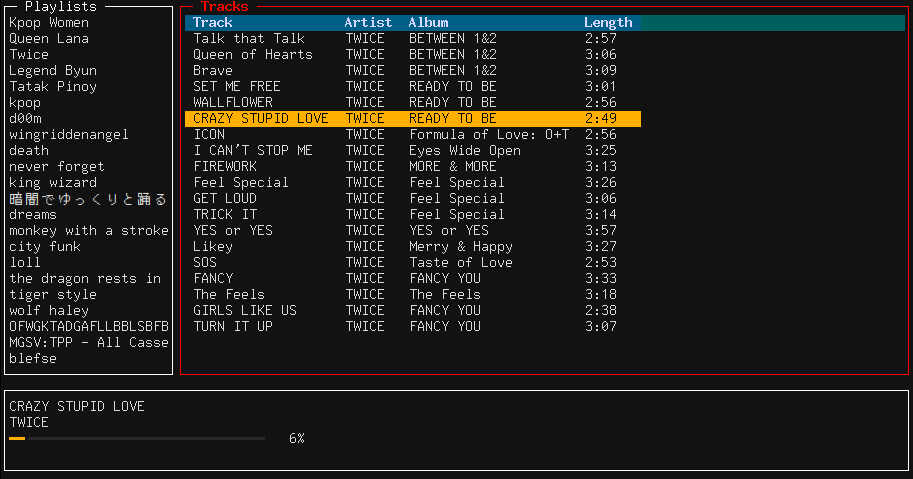
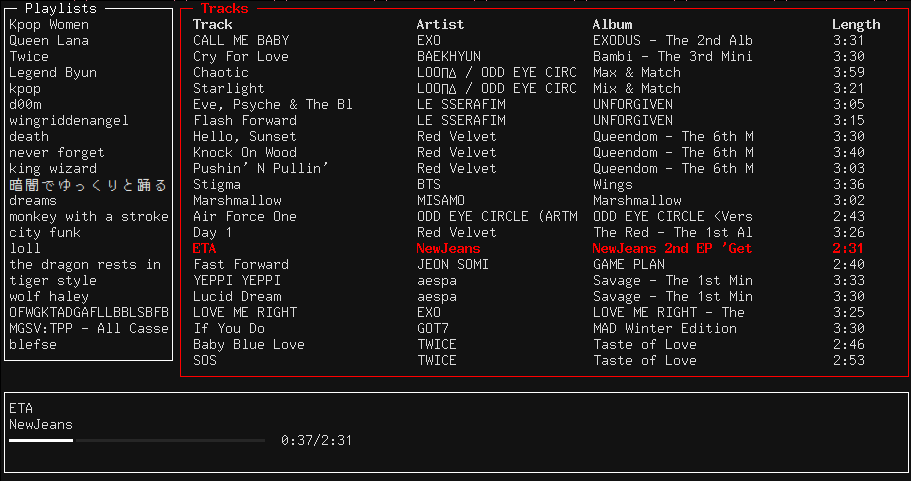
working on getting around playback limitations

Changed region(s): [[0.0, 0.0, 1.0, 0.9645], [0.3074, 0.9061, 0.3996, 0.9353], [0.7991, 0.4384, 0.8299, 0.4676]]

diff --git a/tools/widgets.py b/tools/widgets.py
@@ -1,4 +1,6 @@
 import spotipy 
+import time
+import threading 
 from textual.widgets import ListItem, Label, Static, ProgressBar
 from textual.app import ComposeResult
 from textual.containers import Horizontal
@@ -24,6 +26,7 @@ class TrackProgress(Static):
         self.total_time_ms = 0
         self.progress_ms = 0
         self.is_finished = False
+        self.is_active = False
         self.track_switch = False
     
     def compose(self) -> ComposeResult:
@@ -34,35 +37,35 @@ class TrackProgress(Static):
             yield TrackProgressTimeLabel(label=format_duration(0),id="track_progress_total_time_label")
 
     def on_mount(self) -> None:
-        self.progress_timer = self.set_interval(1, self.make_progress, pause=True)
+        self.progress_timer = self.set_interval(1/10, self.make_progress, pause=True)
     
     def make_progress(self) -> None:
         if self.progress_ms >= self.total_time_ms:
+            print('track is finished!')
             self.pause_progress_bar()
             self.is_finished = True
-        track = sp.current_user_playing_track()
-        if track and track.get('item'):
-            previous_progress_ms = self.progress_ms
-            self.progress_ms = track['progress_ms']
-            self.query_one("#track_progress", ProgressBar).advance(self.progress_ms - previous_progress_ms)
-            self.query_one("#track_progress_time_label", TrackProgressTimeLabel).update(new_time_label=format_duration(self.progress_ms), duration_ms=self.progress_ms)
-        
-        # method to count the progress manually
-        #
-        #
-        # self.progress_ms += 100
-        # self.query_one("#track_progress", ProgressBar).advance(100)
-        # self.query_one("#track_progress_time_label", TrackProgressTimeLabel).update(new_time_label=format_duration(self.progress_ms), duration_ms=self.progress_ms)
+            self.is_active = False
+            return
 
-    def start_progress_bar(self, progress_ms:int, total_time_ms:int) -> None:
+        self.progress_ms += 100
+        self.query_one("#track_progress", ProgressBar).advance(100)
+        self.query_one("#track_progress_time_label", TrackProgressTimeLabel).update(new_time_label=format_duration(self.progress_ms), duration_ms=self.progress_ms)
+
+    def start_progress_bar(self, progress_ms: int, total_time_ms: int) -> None:
         self.query_one("#track_progress", ProgressBar).update(progress=progress_ms, total=total_time_ms)
         self.query_one("#track_progress_time_label", TrackProgressTimeLabel).update(new_time_label=format_duration(progress_ms), duration_ms=progress_ms)
         self.query_one("#track_progress_total_time_label", TrackProgressTimeLabel).update(new_time_label=format_duration(total_time_ms), duration_ms=total_time_ms)
         self.reset_progress_bar()
         self.resume_progress_bar()
-        self.total_time_ms = total_time_ms
+        self.total_time_ms = total_time_ms 
         self.progress_ms = progress_ms
         self.is_finished = False
+        self.is_active = True
+
+    def update_progress_bar(self, progress_ms: int, total_time_ms: int) -> None:
+        self.query_one("#track_progress", ProgressBar).update(progress=progress_ms, total=total_time_ms)
+        self.query_one("#track_progress_time_label", TrackProgressTimeLabel).update(new_time_label=format_duration(progress_ms), duration_ms=progress_ms)
+        self.query_one("#track_progress_total_time_label", TrackProgressTimeLabel).update(new_time_label=format_duration(total_time_ms), duration_ms=total_time_ms)
 
     def pause_progress_bar(self) -> None:
         self.progress_timer.pause()
@@ -77,7 +80,6 @@ class TrackProgress(Static):
     def get_is_finished(self) -> bool:
         self.track_switch = True
         return self.is_finished
-
 
 class TrackProgressTimeLabel(Label):
     def __init__(self, label: str, id: str) -> None:
@@ -105,6 +107,8 @@ class CurrentTrackLabel(Label):
 class CurrentTrack(Static):
     def __init__(self):
         super().__init__()
+        self.track_name = None
+        self.track_artist = None
 
     def compose(self) -> ComposeResult:
         yield CurrentTrackLabel(label="", id="track-title")
@@ -115,19 +119,38 @@ class CurrentTrack(Static):
 
     def update_current_track(self) -> None:
         track = sp.current_user_playing_track()
-        if track and track.get('item'):
+        if track and track.get('item') and track['progress_ms'] > 0:
             track_name = track['item']['name']
             track_artist = track['item']['artists'][0]['name']
             duration_ms = track['item']['duration_ms']
             progress_ms = track['progress_ms']
             is_playing = track['is_playing']
-            track_progress: TrackProgress = self.app.query_one(TrackProgress)
 
-            if self.query_one("#track-title", CurrentTrackLabel).label != track_name:
-                self.query_one("#track-title", CurrentTrackLabel).update(track_name)
-                self.query_one("#track-artist", CurrentTrackLabel).update(track_artist)
-                if(is_playing):
-                    track_progress.start_progress_bar(progress_ms, duration_ms)
+            # Update track details and progress bar only if the track is playing and data is consistent
+            if is_playing:
+                if self.should_update_track(track_name, track_artist):
+                    self.update_track_labels(track_name, track_artist)
+                
+                self.start_or_update_progress_bar(progress_ms, duration_ms)
         else:
-            self.query_one("#track-title", CurrentTrackLabel).update("No track currently playing")
-            self.query_one("#track-artist", CurrentTrackLabel).update("")
+            self.display_no_current_track()
+
+    def should_update_track(self, track_name, track_artist) -> bool:
+        # Compare current labels with new values to determine if update is needed
+        return (self.query_one("#track-title", CurrentTrackLabel).label != track_name or 
+                self.query_one("#track-artist", CurrentTrackLabel).label != track_artist)
+
+    def update_track_labels(self, track_name, track_artist):
+        self.query_one("#track-title", CurrentTrackLabel).update(track_name)
+        self.query_one("#track-artist", CurrentTrackLabel).update(track_artist)
+
+    def start_or_update_progress_bar(self, progress_ms, duration_ms):
+        track_progress: TrackProgress = self.app.query_one(TrackProgress)
+        if track_progress.is_active:
+            track_progress.update_progress_bar(progress_ms, duration_ms)
+        else:
+            track_progress.start_progress_bar(progress_ms, duration_ms)
+
+    def display_no_current_track(self):
+        self.query_one("#track-title", CurrentTrackLabel).update("No track currently playing")
+        self.query_one("#track-artist", CurrentTrackLabel).update("")

diff --git a/spotify_player/player.py b/spotify_player/player.py
@@ -8,8 +8,8 @@ from collections import deque
 from tools.widgets import PlaylistLabel, TrackProgress
 from spotify_api.spotify_client import SpotifyClient
 
-sp = SpotifyClient.get_instance()
 finish_timer: Timer
+sp = SpotifyClient.get_instance()
 
 class PlaylistTrackQueue:
     def __init__(self):
@@ -22,6 +22,7 @@ class PlaylistTrackQueue:
 
     def next_track(self, playlist: str):
         if playlist in self.queues and len(self.queues[playlist]) > 0:
+            print('popping...')
             return self.queues[playlist].popleft()
         return None
 
@@ -83,7 +84,7 @@ class Player(Static):
         self.playlists = sp.current_user_playlists()
         self.playlist_names, self.playlist_ids = load_user_playlists(self.playlists)
         self.track_progress = self.app.query_one(TrackProgress)
-        self.finish_timer = self.set_interval(10, self.is_track_finished, pause=False)
+        self.finish_timer = self.set_interval(3, self.is_track_finished, pause=False)
         added_playlist_names = set()
 
         self.check_if_track_playing()
@@ -138,13 +139,12 @@ class Player(Static):
     def play_next_track(self) -> None:
         print('playing next track...')
         next_track_uri = self.track_queue.next_track(self.curr_playing_playlist)
-        print(next_track_uri)
         if next_track_uri is None:
             # check for next page
             print('next track uri is none!')
             return
             while self.action_scroll_down():
-                next_tracks = self.curr_displayed_tracks[self.curr_playing_playlist] #get the track of the first item in the list
+                next_tracks = self.curr_displayed_tracks[self.curr_playing_playlist] # get the track of the first item in the list
                 next_track_uri = next_tracks['items'][0]['track']['uri']
                 next_track_artist = next_tracks['items'][0]['track']['artists'][0]['name']
                 
@@ -174,7 +174,6 @@ class Player(Static):
     def check_if_track_playing(self) -> None:
         print('Checking if track is playing...')
         curr_playing_info = sp.currently_playing()
-        print(curr_playing_info)
         if curr_playing_info and curr_playing_info['context']:
             print('Context: ', curr_playing_info['context'])
             match curr_playing_info['context']['type']:
@@ -201,7 +200,6 @@ class Player(Static):
         curr_playing = sp.currently_playing()
 
         if not curr_playing or not curr_playing['is_playing']:
-            print("nothing is being played..")
             return
 
         playlist = self.curr_playing_playlist
@@ -286,6 +284,8 @@ class Player(Static):
         
         self.curr_track = unique_track_name
         self.curr_row_index = self.track_info[self.curr_playing_playlist][unique_track_name]['row_index']
+        track_name = self.track_info[self.curr_playing_playlist][unique_track_name]['track_name']
+
 
         self.create_queue()
         self.finish_timer.resume()

diff --git a/spotify_api/spotify_utils.py b/spotify_api/spotify_utils.py
@@ -1,5 +1,6 @@
 import os
 import spotipy
+import time
 from spotipy.oauth2 import SpotifyOAuth
 from tools.formatting import format_duration, format_artist_track
 from spotify_api.spotify_client import SpotifyClient
@@ -42,11 +43,14 @@ def load_tracks(tracks, track_table, playlist, track_info, track_uris, uri_list)
         unformatted_list_items.append((track_name, artist_name, album_name, duration))
         track_uris[uri][artist_name] = unique_track_name
         uri_list[playlist].append(uri)
+        
+        track_info[playlist][uri]['artist'] = artist_name
+        track_info[playlist][unique_track_name]['track_name'] = track_name
         track_info[playlist][unique_track_name]['uri'] = uri
         track_info[playlist][unique_track_name]['artist'] = artist_name
-        track_info[playlist][uri]['artist'] = artist_name
         track_info[playlist][unique_track_name]['duration_ms'] = duration_ms
         track_info[playlist][unique_track_name]['row_index'] = row_index
+
     return list_items, unformatted_list_items
 
 def find_active_device():
@@ -59,17 +63,34 @@ def find_active_device():
     else:
         return None
 
-def start_playback_on_active_device(track_uri, playlist_uri):
+
+def start_playback_on_active_device(track_uri: str, playlist_uri: str) -> int:
     device_id = find_active_device()
     if device_id:
         if device_id != -1:
             sp.transfer_playback(device_id, force_play=False)
-            sp.start_playback(device_id=device_id, uris=[track_uri], context_uri=playlist_uri)
-            return
-        sp.start_playback(uris=[track_uri])
+            sp.start_playback(device_id=device_id, uris=[track_uri])
+        else:
+            sp.start_playback(uris=[track_uri])
+        if wait_for_playback_to_start(track_uri):
+            return 1
+        else:
+            return 0
     else:
         print("No active device found.")
-        # load some error window saying 404 device not found and add instructions for user to run a Spotify daemon like spotifyd
+        return -1
+
+def wait_for_playback_to_start(expected_track_uri: str, timeout=30) -> bool:
+    start_time = time.time()
+    while time.time() - start_time < timeout:
+        current_playback = sp.current_playback()
+        if current_playback and current_playback.get('item') and current_playback['item']['uri'] == expected_track_uri:
+            print("Playback started successfully.")
+            return True
+        time.sleep(1)
+    print("Playback did not start within the expected timeout.")
+    return False
+
 
 def load_user_playlists(playlists):
     playlist_names = []

diff --git a/spotify_player/player_controls.py b/spotify_player/player_controls.py
@@ -6,7 +6,6 @@ from tools.widgets import CurrentTrack, TrackProgress
 class PlayerControls(Static):
     # spacebar: play/pause current song
     BINDINGS = [
-        ("a", "start", "Start"),
     ]
 
     progress_timer: Timer
